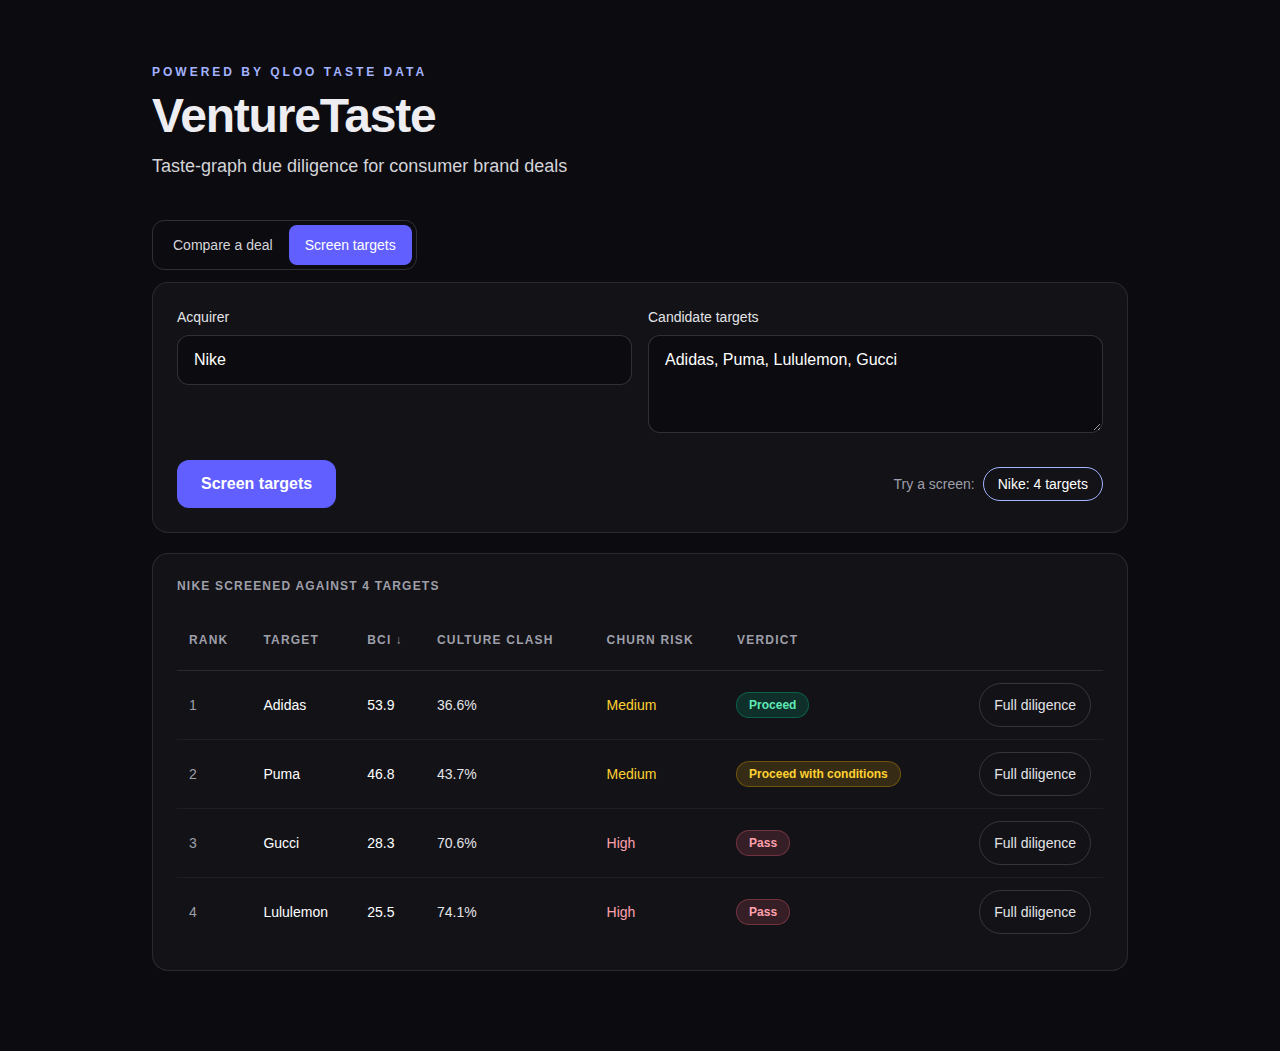
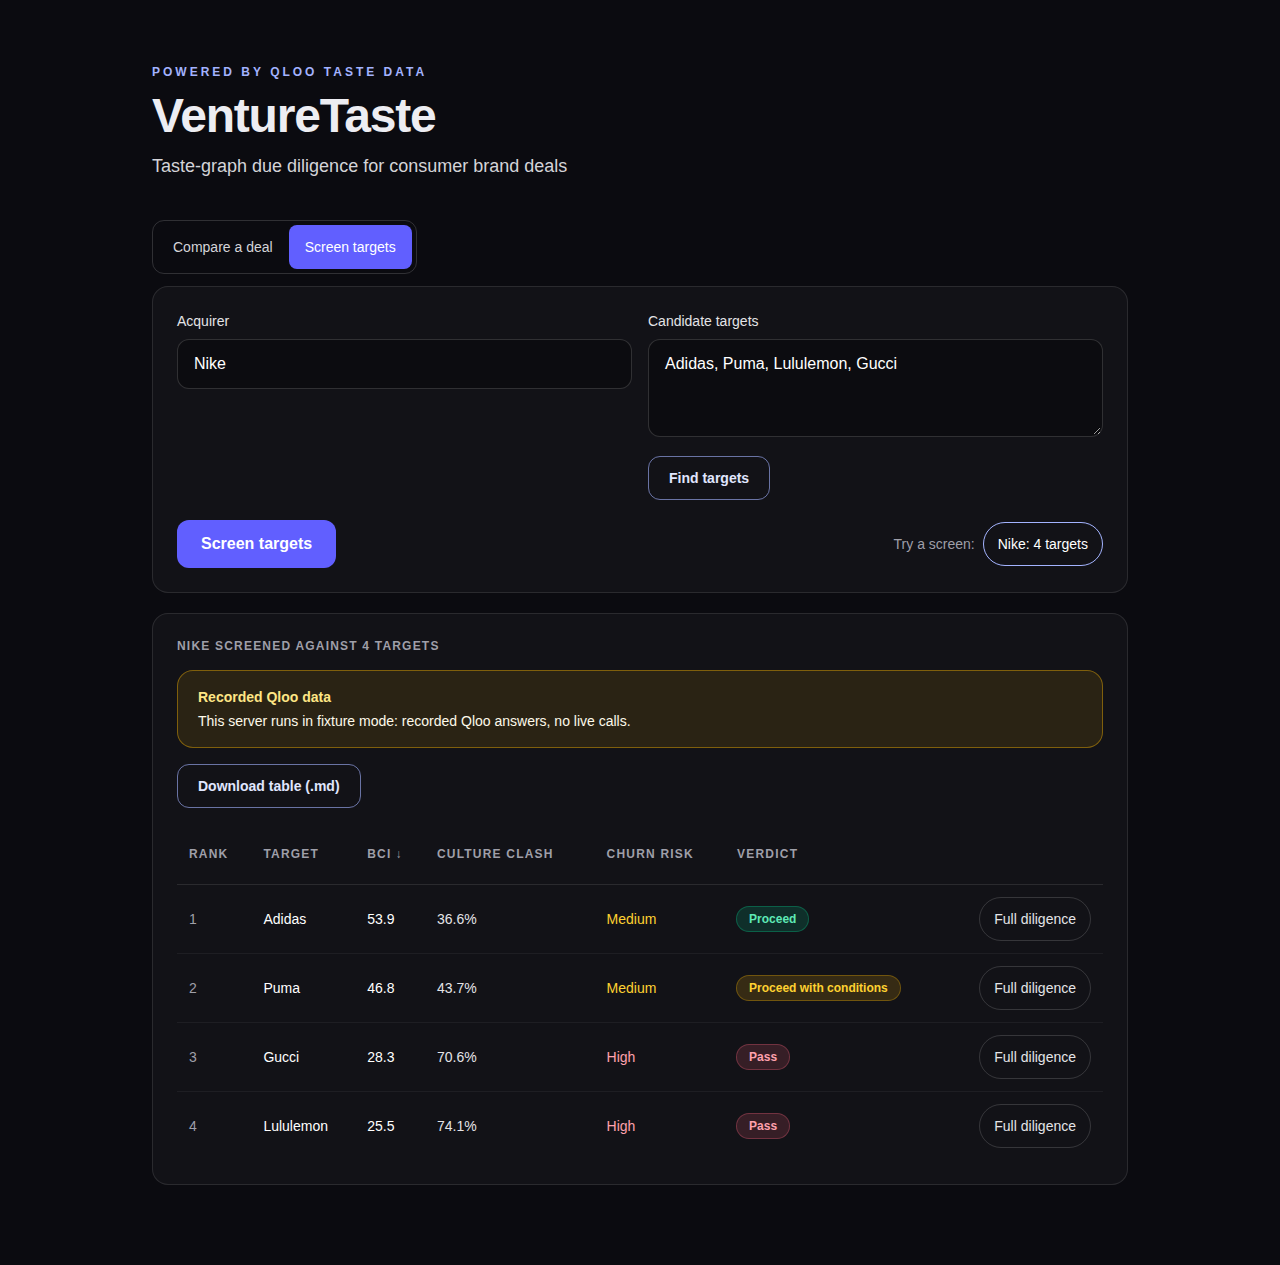
fresh screenshots incl find targets

diff --git a/web/e2e/screenshots.spec.ts b/web/e2e/screenshots.spec.ts
@@ -18,6 +18,15 @@ test("README screenshots: desktop and mobile Nike + Adidas", async ({ page }) =>
   await page.setViewportSize({ width: 1280, height: 800 });
   await runPreset(page, "Nike + Adidas");
   await expect(page.getByTestId("bci-value")).toHaveText("53.9");
+  // the layout the README describes: verdict and radar above the fold
+  const verdictBox = (await page.getByTestId("verdict").boundingBox())!;
+  const radarBox = (await page.getByTestId("radar").boundingBox())!;
+  expect(verdictBox.y + verdictBox.height).toBeLessThanOrEqual(800);
+  expect(radarBox.y).toBeLessThan(800);
+  await expect(page.getByTestId("planner-Analyst")).toHaveText("Recorded qwen2.5:7b run");
+  await expect(page.getByTestId("planner-Partner")).toHaveText("Recorded qwen2.5:7b run");
+  for (const agent of AGENTS) await expect(page.getByTestId(`agent-${agent}`)).toContainText("recorded answers, no live Qloo calls");
+  await expect(page.getByRole("button", { name: "Download memo (.md)" })).toBeVisible();
   await page.screenshot({ path: "../docs/demo-desktop.png", fullPage: true });
 
   await page.setViewportSize({ width: 390, height: 844 });
@@ -34,12 +43,55 @@ test("README screenshots: Nike target screening table", async ({ page }) => {
   await expect(page.getByTestId("screen-row")).toHaveCount(4);
   await expect(page.getByText("Screening…")).toHaveCount(0);
   await expect(page.locator("form").getByRole("button", { name: "Screen targets" })).toBeEnabled();
+  await expect(page.getByRole("button", { name: "Download table (.md)" })).toBeVisible();
   await page.screenshot({ path: "../docs/screening.png", fullPage: true });
+});
+
+test("README screenshots: Find targets with a reason on each found target", async ({ page }) => {
+  await page.setViewportSize({ width: 1280, height: 800 });
+  await page.goto("/");
+  await page.getByRole("group", { name: "Mode" }).getByRole("button", { name: "Screen targets" }).click();
+  await page.getByLabel("Acquirer").fill("Nike");
+  await page.getByRole("button", { name: "Find targets" }).click();
+  await expect(page.getByTestId("screen-found")).toHaveText("Found by Qloo: Nike's 5 best category fits");
+  await expect(page.getByTestId("screen-row")).toHaveCount(5);
+  const reasons = page.getByTestId("screen-reason");
+  await expect(reasons).toHaveCount(5);
+  for (const text of await reasons.allTextContents()) expect(text).toMatch(/^(Shares .+|No shared categories) · affinity \d\.\d\d$/);
+  await expect(page.getByTestId("screen-bci")).toHaveCount(5);
+  await expect(page.getByText("Screening…")).toHaveCount(0);
+  await expect(page.getByRole("button", { name: "Find targets" })).toBeEnabled();
+  await expect(page.getByRole("button", { name: "Download table (.md)" })).toBeVisible();
+  await page.screenshot({ path: "../docs/find-targets.png", fullPage: true });
+});
+
+test("README screenshots: mobile screening cards", async ({ page }) => {
+  await page.setViewportSize({ width: 375, height: 812 });
+  await page.goto("/");
+  await page.getByRole("group", { name: "Mode" }).getByRole("button", { name: "Screen targets" }).click();
+  await page.getByRole("button", { name: "Nike: 4 targets" }).click();
+  await expect(page.getByTestId("screen-card")).toHaveCount(4);
+  await expect(page.getByText("Screening…")).toHaveCount(0);
+  await expect(page.getByTestId("screen-table")).toBeHidden();
+  await expect(page.getByRole("list", { name: "Screening cards" })).toBeVisible();
+  expect(await page.evaluate(() => document.documentElement.scrollWidth)).toBeLessThanOrEqual(375);
+  await page.screenshot({ path: "../docs/screening-mobile.png", fullPage: true });
+});
+
+test("README screenshots: deal memo export button", async ({ page }) => {
+  await page.setViewportSize({ width: 1280, height: 800 });
+  await runPreset(page, "Nike + Adidas");
+  const download = page.getByRole("button", { name: "Download memo (.md)" });
+  await expect(download).toBeVisible();
+  const [file] = await Promise.all([page.waitForEvent("download"), download.click()]);
+  expect(file.suggestedFilename()).toMatch(/\.md$/);
+  await page.getByTestId("verdict").locator("xpath=ancestor::section[1]").screenshot({ path: "../docs/export.png" });
 });
 
 test("README screenshots: Patagonia + Gucci culture clash",async ({ page }) => {
   await page.setViewportSize({ width: 1280, height: 800 });
   await runPreset(page, "Patagonia + Gucci");
   await expect(page.getByTestId("verdict")).toHaveText("Pass");
+  await expect(page.locator("body")).not.toContainText(/women-owned|friendship|inclusivity|credit card|hotel rating/i);
   await page.screenshot({ path: "../docs/culture-clash.png", fullPage: true });
 });
